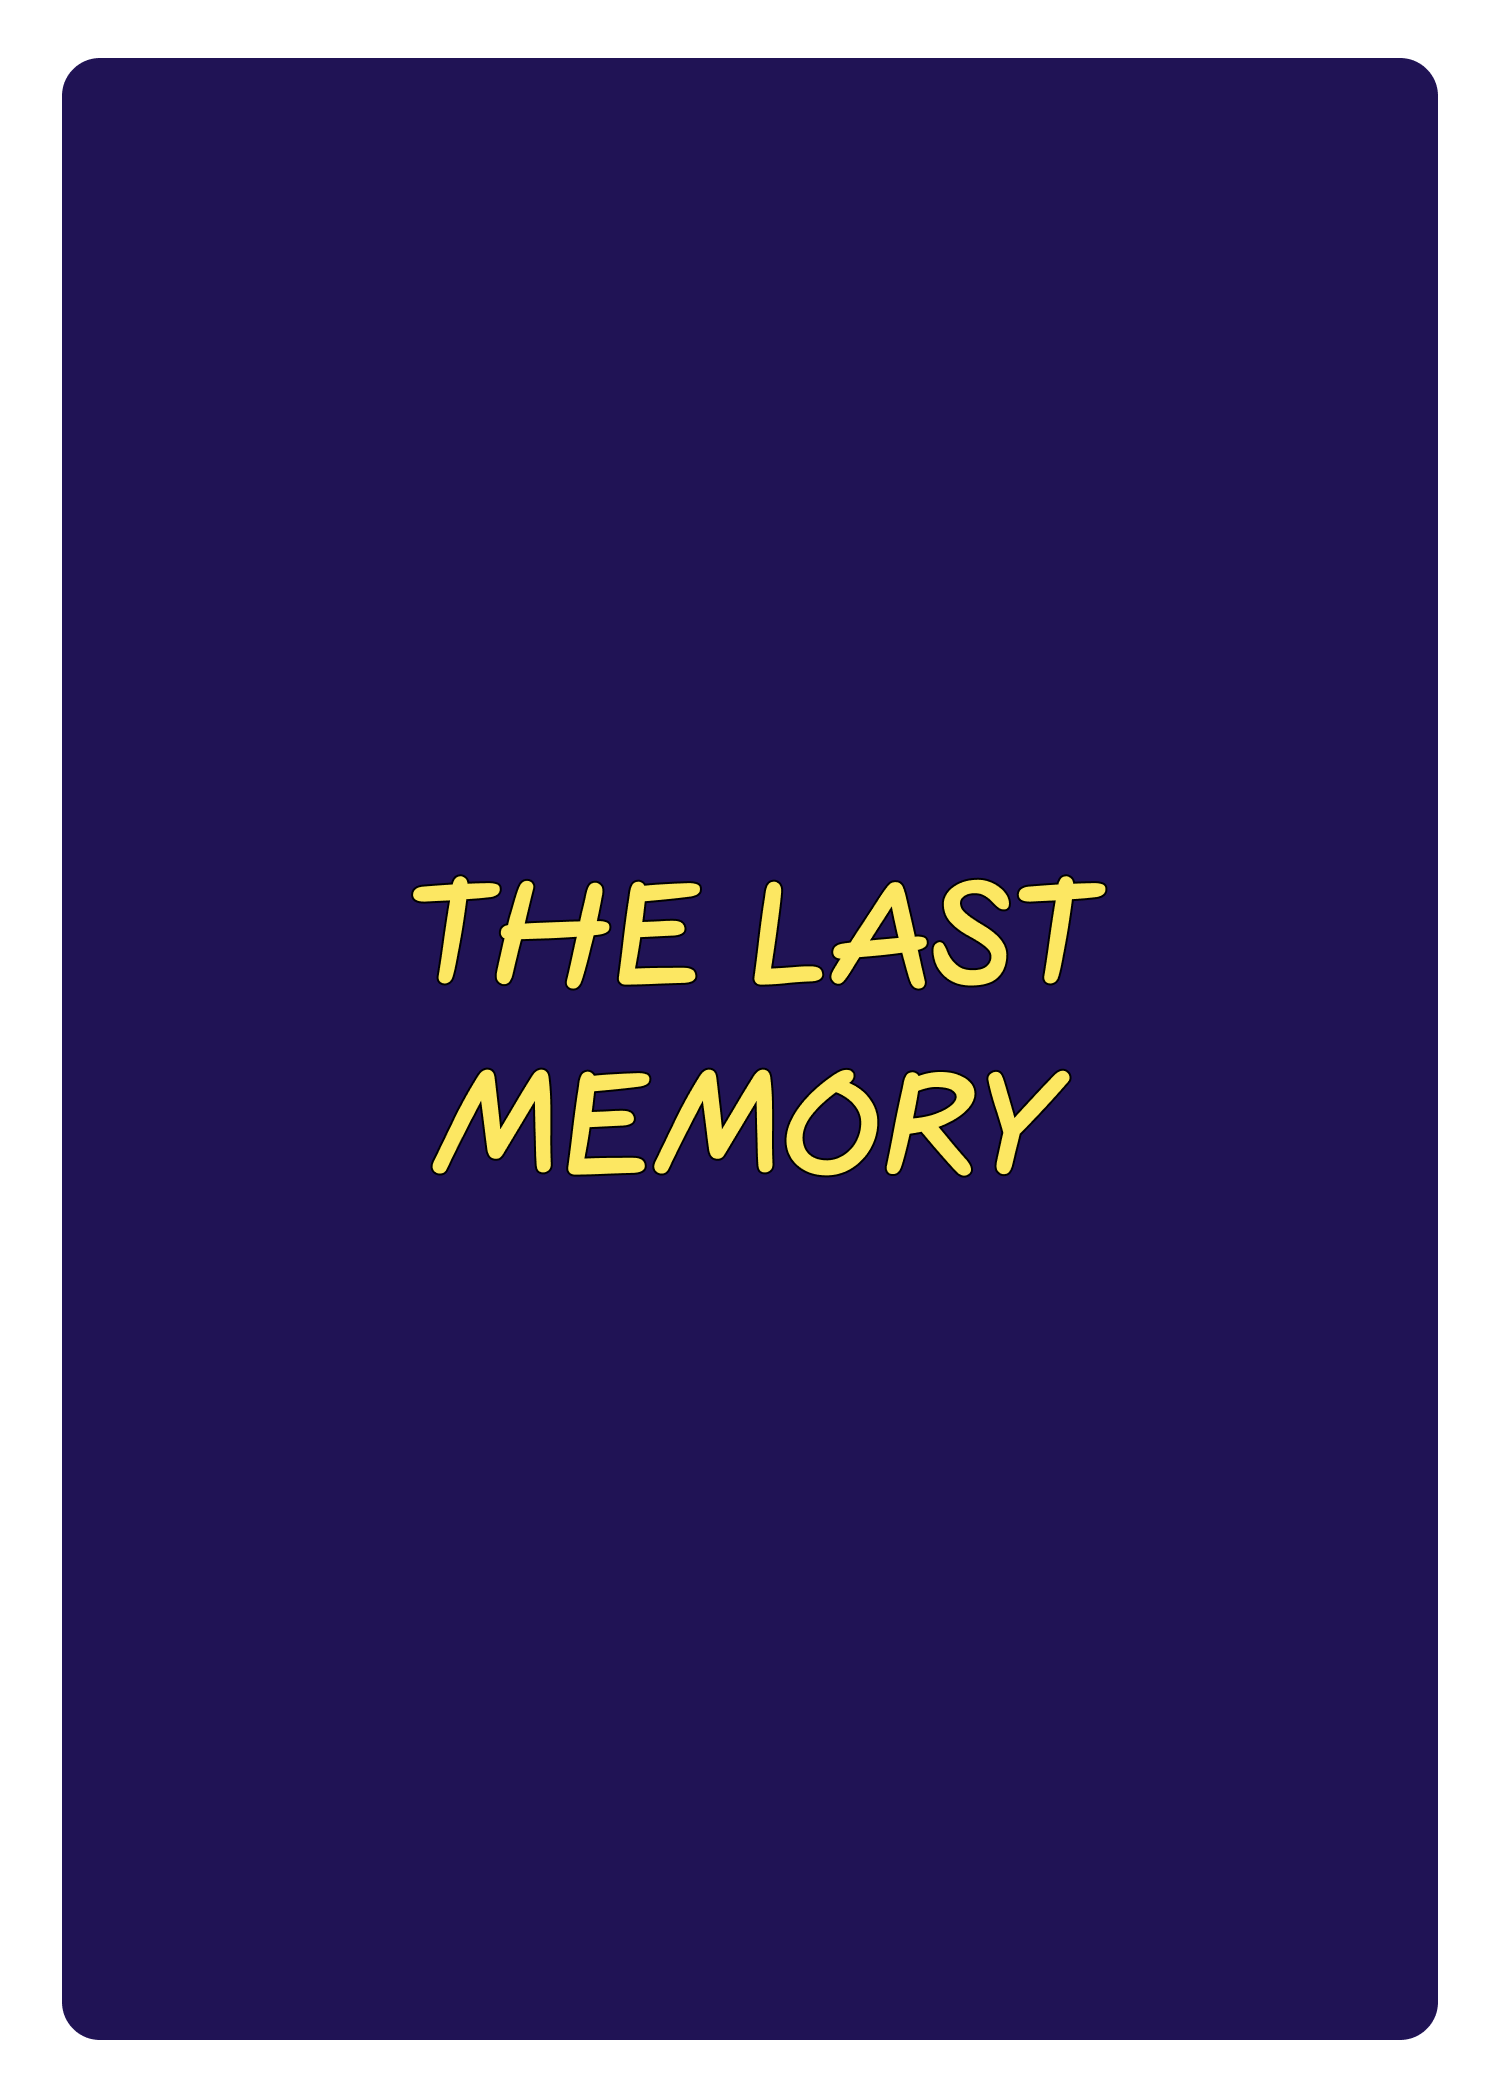
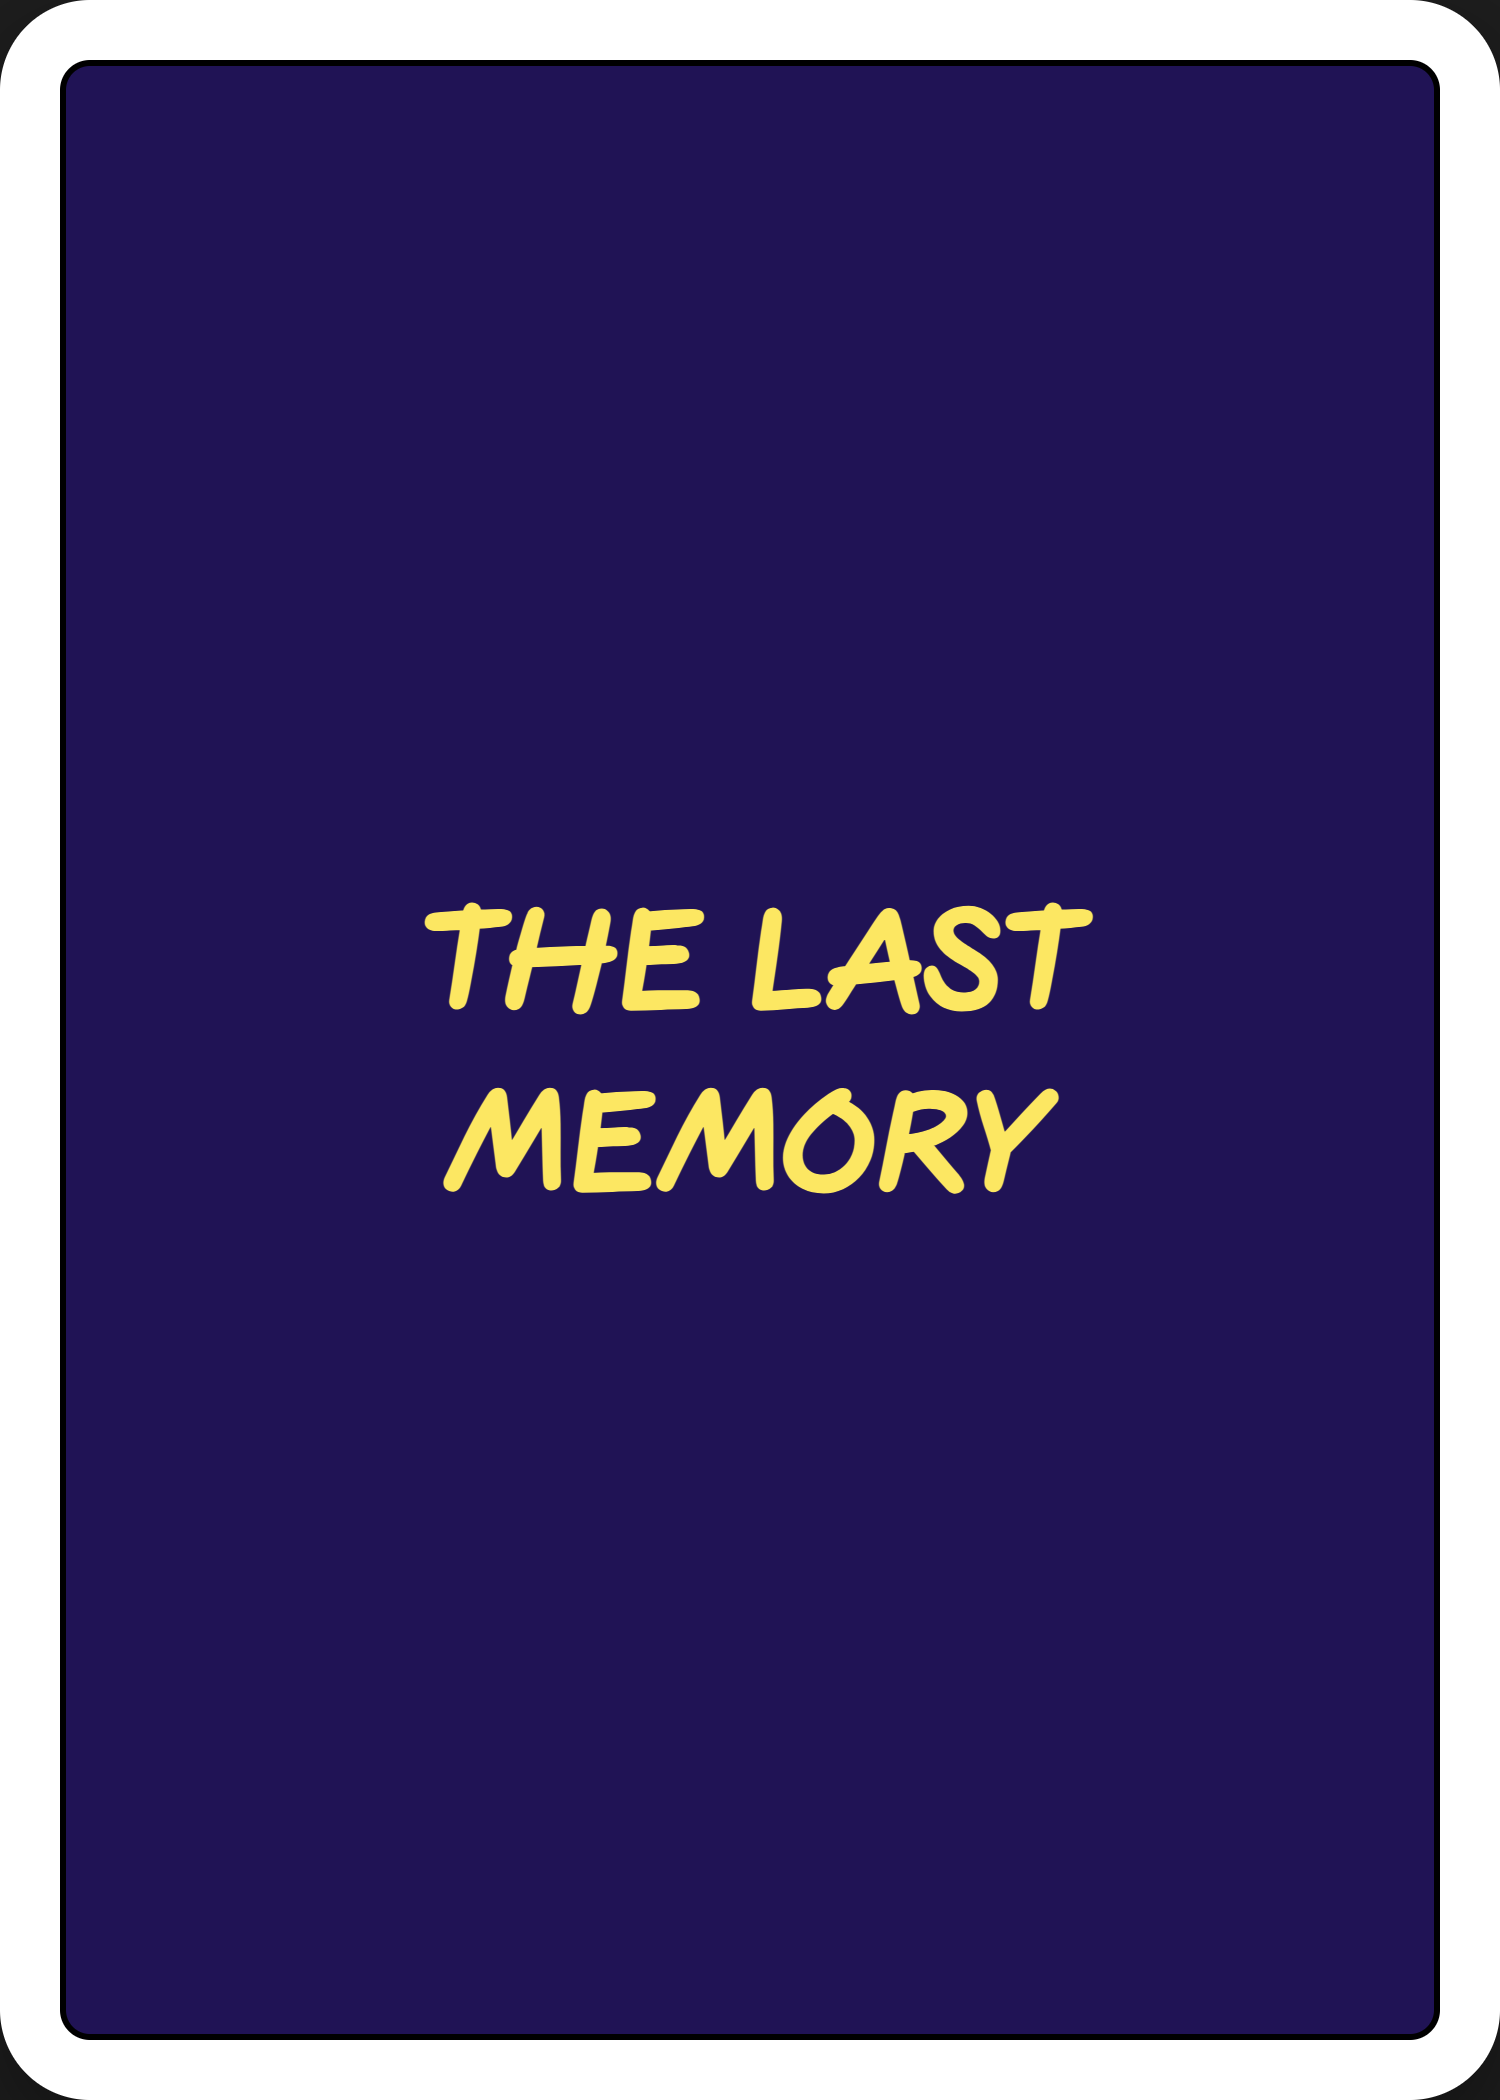
feat: add script to generate back card image using Puppeteer

diff --git a/back.html b/back.html
@@ -1,0 +1,81 @@
+<!DOCTYPE html>
+<html lang="en">
+
+<head>
+    <meta charset="UTF-8">
+    <meta name="viewport" content="width=device-width, initial-scale=1.0">
+    <title>Card Back Generator</title>
+    <link rel="stylesheet" href="style.css">
+    <!-- Google Fonts for the typography -->
+    <link href="https://fonts.googleapis.com/css2?family=Farsan&family=Frank+Ruhl+Libre:wght@700&family=Gveret+Levin&display=swap"
+        rel="stylesheet">
+</head>
+
+<body>
+    <div class="app-container">
+        <!-- The card element that will be exported -->
+        <div class="card-wrapper" id="card-node">
+
+
+            <!-- Outer Box -->
+            <div class="card-outer">
+                <!-- Inner Box -->
+                <div class="card-inner" style="background-color: #201355; justify-content: center; align-items: center; display: flex;">
+                    <h1 class="back-title" style="color: #FCE762; font-family: 'Gveret Levin', sans-serif; font-size: 70px; text-transform: uppercase; text-align: center; margin: 0; padding: 0;">the last memory</h1>
+                </div>
+            </div>
+        </div>
+
+        <div class="controls">
+            <button id="export-btn">Download Back Image</button>
+        </div>
+    </div>
+
+    <!-- html2canvas library for highly accurate DOM capturing -->
+    <script src="https://cdnjs.cloudflare.com/ajax/libs/html2canvas/1.4.1/html2canvas.min.js"></script>
+    <script>
+        // Single Card Export functionality
+        document.getElementById('export-btn').addEventListener('click', () => {
+            exportCardPNG('card-back.png', document.getElementById('export-btn'), 'Download Back Image');
+        });
+
+        // Helper function to export current DOM to PNG
+        function exportCardPNG(filename, btnElement, originalText) {
+            const cardElement = document.getElementById('card-node');
+            if (btnElement) {
+                btnElement.disabled = true;
+                btnElement.textContent = 'Exporting...';
+            }
+
+            return html2canvas(cardElement, {
+                backgroundColor: null, // Keep background transparent (outside the card)
+                scale: 2, // 2x resolution for crisp output
+                useCORS: true // Properly load fonts and external images
+            })
+            .then(function (canvas) {
+                const dataUrl = canvas.toDataURL('image/png');
+                // Create an invisible anchor tag to trigger the download
+                const link = document.createElement('a');
+                link.download = filename;
+                link.href = dataUrl;
+                link.click();
+
+                if (btnElement) {
+                    btnElement.disabled = false;
+                    btnElement.textContent = originalText;
+                }
+            })
+            .catch(function (error) {
+                console.error("Error generating PNG:", error);
+                alert("Failed to export image: " + filename);
+
+                if (btnElement) {
+                    btnElement.disabled = false;
+                    btnElement.textContent = originalText;
+                }
+            });
+        }
+    </script>
+</body>
+
+</html>

diff --git a/generate_back.js b/generate_back.js
@@ -1,0 +1,37 @@
+const path = require('path');
+const puppeteer = require('puppeteer');
+
+(async () => {
+    console.log("Starting browser engine to generate back card...");
+    const browser = await puppeteer.launch({ 
+        headless: "new",
+        args: ['--no-sandbox', '--allow-file-access-from-files'] 
+    });
+    const page = await browser.newPage();
+    
+    const fileUrl = 'file://' + path.join(process.cwd(), 'back.html');
+    await page.goto(fileUrl, { waitUntil: 'networkidle0' });
+
+    // Wait for Google Fonts to be fully loaded
+    await page.evaluate(async () => {
+        await document.fonts.ready;
+        await document.fonts.load('400 80px "Gveret Levin"');
+    });
+
+    // Set viewport to match card dimensions (750x1050)
+    await page.setViewport({ width: 750, height: 1050, deviceScaleFactor: 2 });
+
+    console.log("Saving back-image.png...");
+    
+    // Wait for fonts and rendering to settle
+    await new Promise(r => setTimeout(r, 500));
+
+    // Screenshot just the card element as PNG
+    const cardElement = await page.$('#card-node');
+    const outPath = path.join(process.cwd(), 'back_image/image.png');
+    
+    await cardElement.screenshot({ path: outPath, type: 'png', omitBackground: true });
+
+    await browser.close();
+    console.log(`\n✅ Success! The back card has been saved as '${outPath}'.`);
+})();

diff --git a/simulator/src/main.js b/simulator/src/main.js
@@ -78,7 +78,7 @@ const giveCardHandEl = document.getElementById('give-card-hand');
 const giveCardCancelBtn = document.getElementById('give-card-cancel-btn');
 
 // Initialize back image on deck
-deckEl.style.backgroundImage = `url(${backImageUrl})`;
+deckEl.style.backgroundImage = `url("${backImageUrl}")`;
 
 function saveGameState() {
   const state = {
@@ -167,7 +167,7 @@ function updateDiscardPile() {
   } else {
     discardPileEl.classList.remove('empty');
     const topCardUrl = discardPile[discardPile.length - 1];
-    discardPileEl.style.backgroundImage = `url(${topCardUrl})`;
+    discardPileEl.style.backgroundImage = `url("${topCardUrl}")`;
     
     let filename = topCardUrl.split('/').pop().split('?')[0];
     let decodedName = decodeURIComponent(filename.replace('.png', ''));
@@ -244,7 +244,7 @@ function inspectCard(index) {
   currentlyInspectedIndex = index;
   const cardUrl = hands[currentPlayer][index];
   
-  inspectCardEl.style.backgroundImage = `url(${cardUrl})`;
+  inspectCardEl.style.backgroundImage = `url("${cardUrl}")`;
   
   let filename = cardUrl.split('/').pop().split('?')[0];
   let decodedName = decodeURIComponent(filename.replace('.png', ''));
@@ -272,7 +272,7 @@ function closeInspect() {
 function createCardElement(url, index, isHand, customOnClick = null) {
   const cardDiv = document.createElement('div');
   cardDiv.className = 'card min-card';
-  cardDiv.style.backgroundImage = `url(${url})`;
+  cardDiv.style.backgroundImage = `url("${url}")`;
   
   let filename = url.split('/').pop().split('?')[0];
   let decodedName = decodeURIComponent(filename.replace('.png', ''));

diff --git a/generate.js b/generate.js
@@ -125,7 +125,8 @@ const rows = parseCSV(content);
             const imgEl = document.querySelector('.card-image-container img');
             if (imgEl) {
                 imgEl.src = imgSrc;
-                if (n.trim().toUpperCase() === 'UNIVERSUM PARADOX') {
+                const normalizedName = n.trim().toUpperCase();
+                if (normalizedName === 'UNIVERSUM PARADOX' || normalizedName === "SERENITY CITIZENS' PARK") {
                     imgEl.style.maxWidth = '80%';
                 } else {
                     imgEl.style.maxWidth = '';

diff --git a/script.js b/script.js
@@ -72,7 +72,8 @@ function renderCard(index) {
         // The drive replaces ' with _ in filenames
         const fileName = card.name.replace(/'/g, '_');
         imgEl.src = `cards/${fileName}.png`;
-        if (card.name.trim().toUpperCase() === 'UNIVERSUM PARADOX') {
+        const normalizedName = card.name.trim().toUpperCase();
+        if (normalizedName === 'UNIVERSUM PARADOX' || normalizedName === "SERENITY CITIZENS' PARK") {
             imgEl.style.maxWidth = '80%';
         } else {
             imgEl.style.maxWidth = '';

diff --git a/style.css b/style.css
@@ -91,6 +91,7 @@ body {
     max-width: 100%;
     max-height: 600px; /* Prevent it from overflowing vertically */
     object-fit: contain; /* Ensure it never squishes */
+    filter: drop-shadow(0 15px 30px rgba(0, 0, 0, 0.5)); /* Make the character stand out */
 }
 
 .card-type {